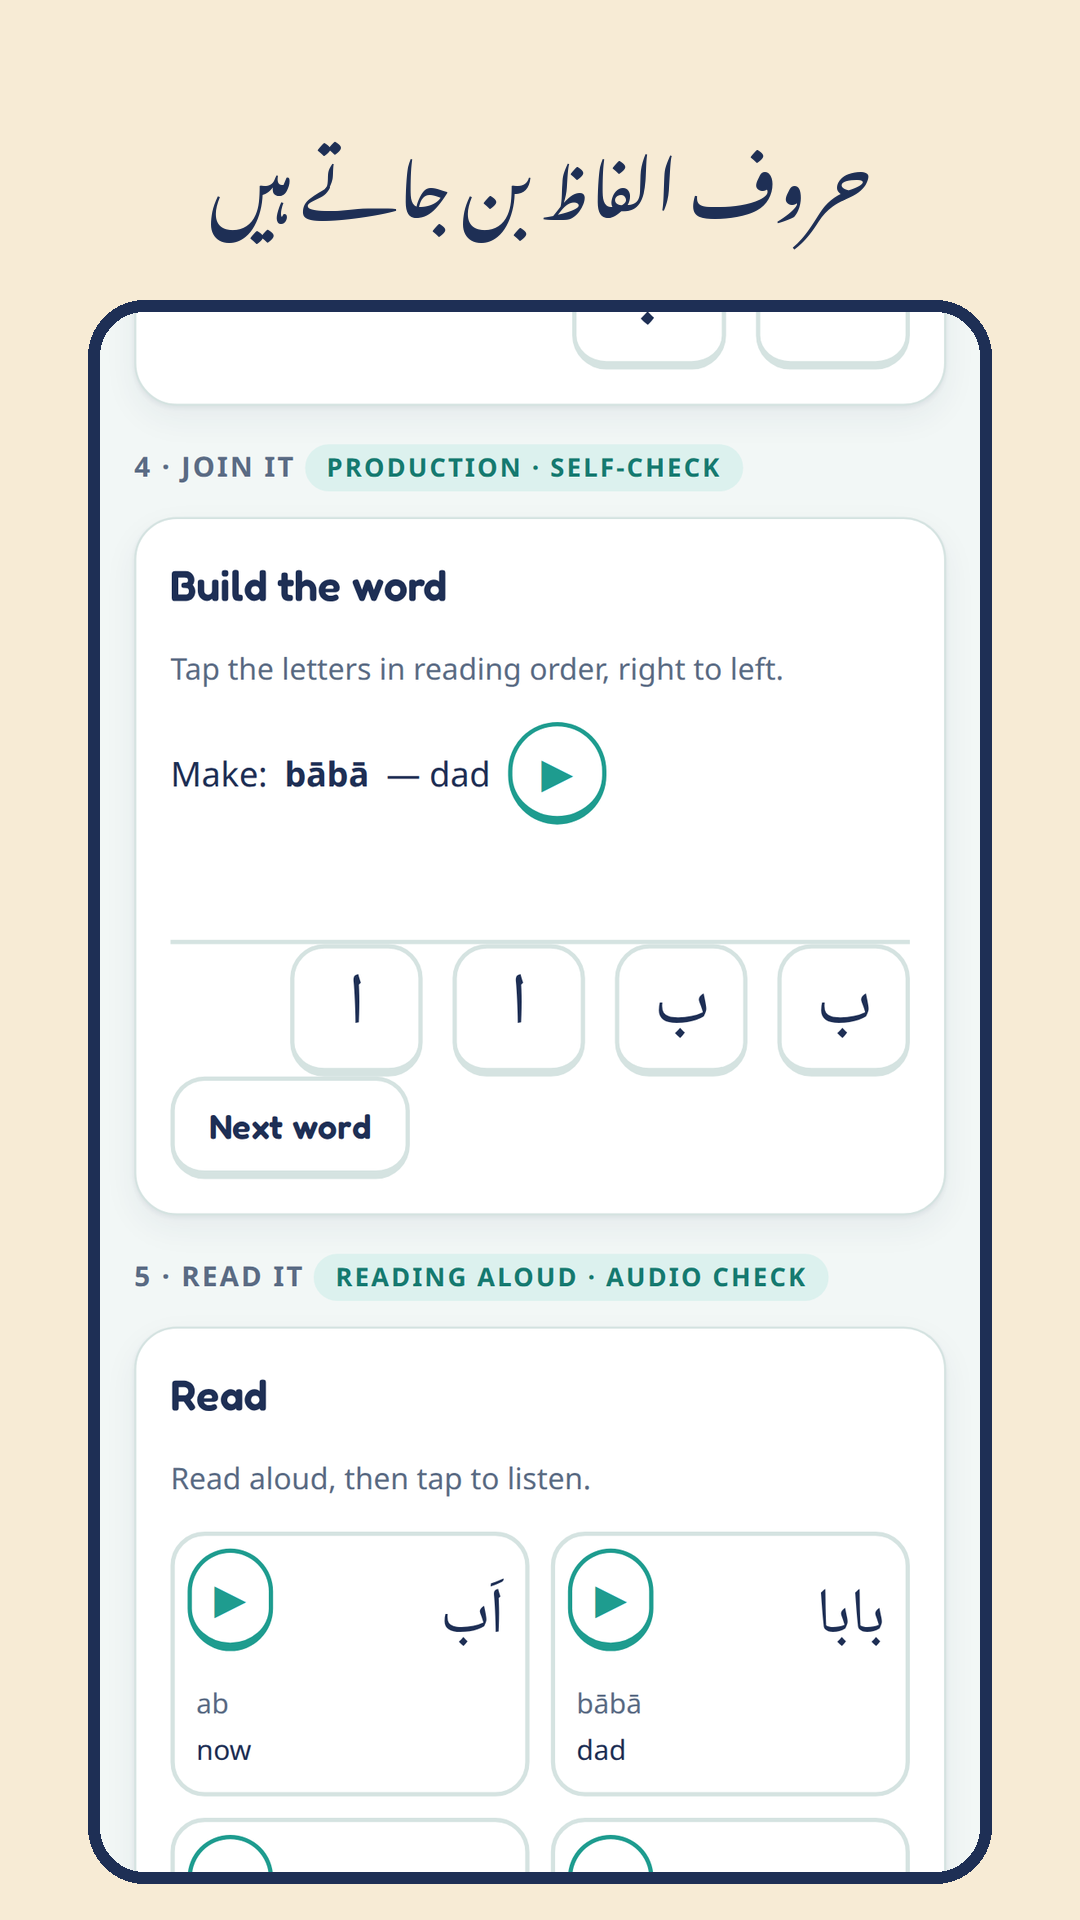
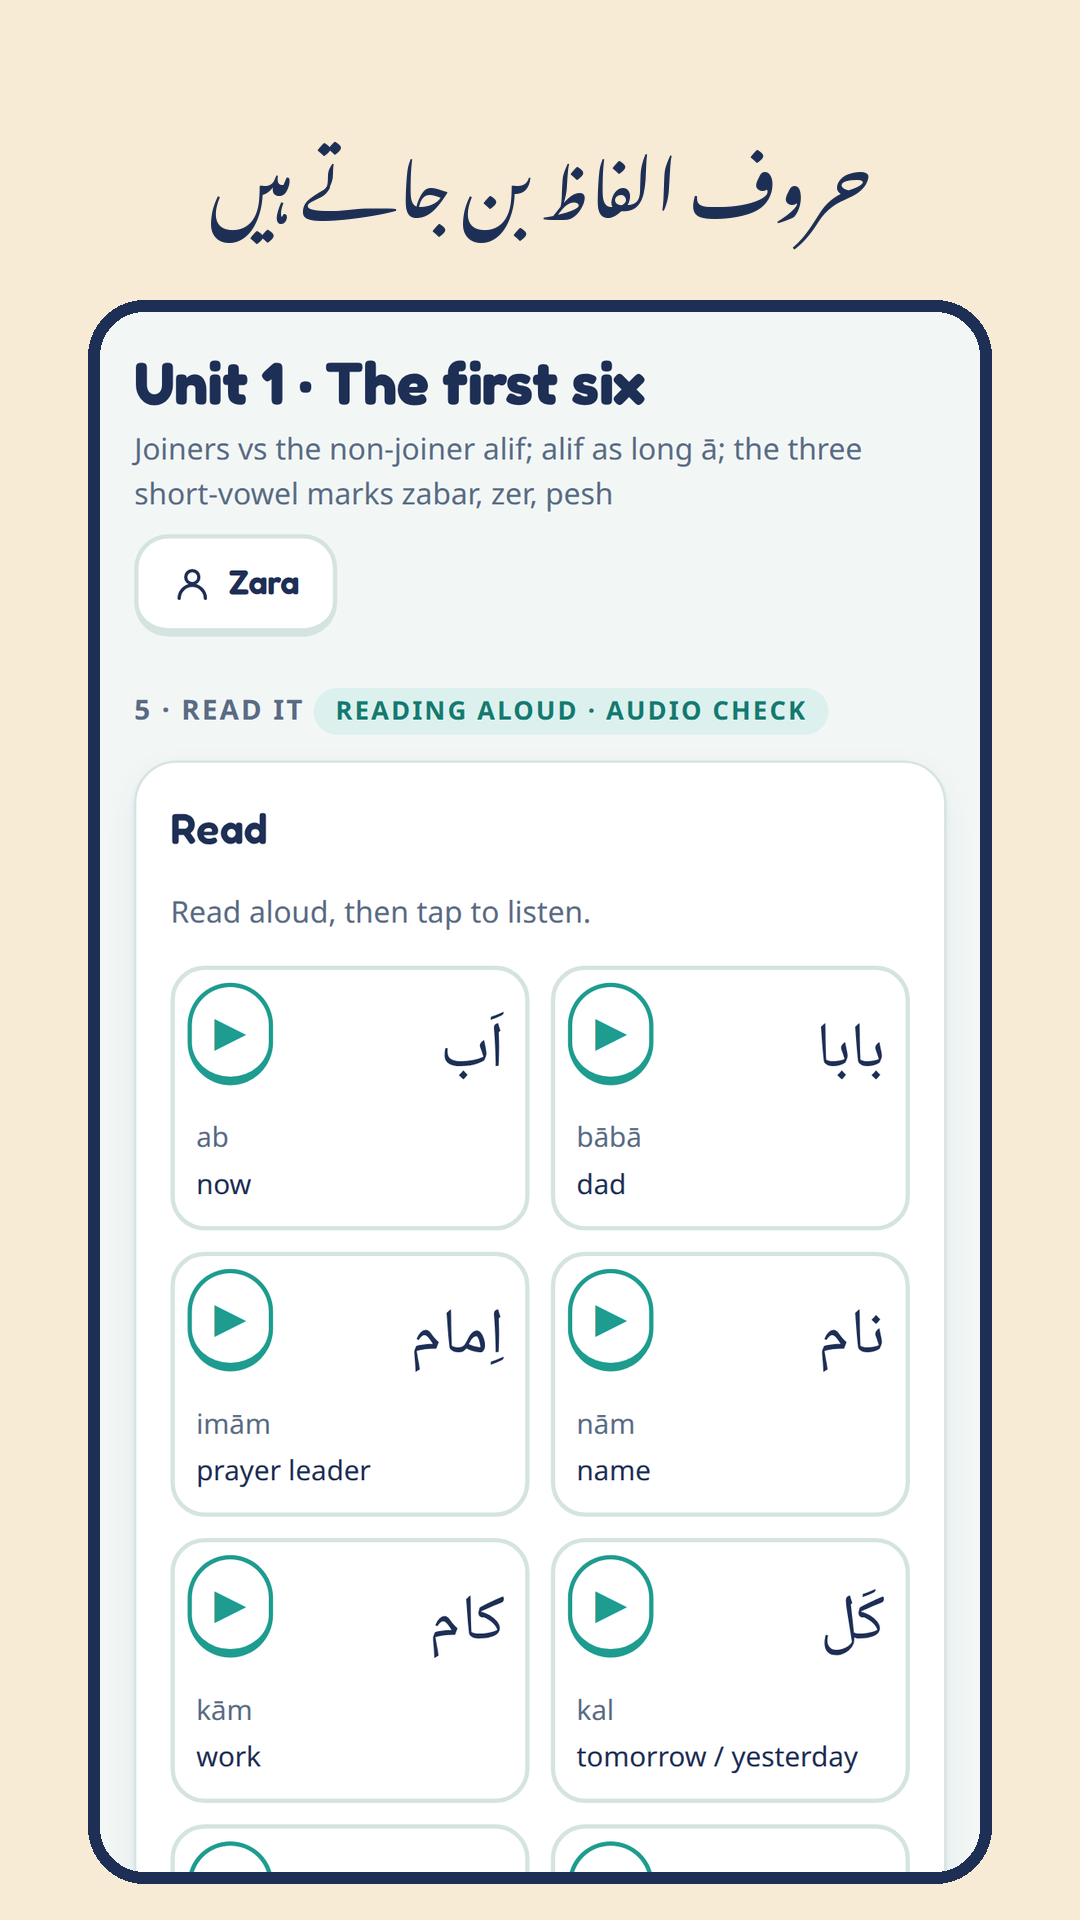
store: Qaida-first listing, keyword fixes, seeded screenshots, donate covered in privacy policy

diff --git a/docs/privacy.html b/docs/privacy.html
@@ -17,7 +17,7 @@ a{color:var(--accent)}
 <body>
 <main>
 <h1>Urdu Reader · Privacy policy</h1>
-<p class="muted">App: Urdu Reader (package <code>com.oyekamal.urdureader</code>) · Developer: Muhammad Kamal, Pakistan · Effective 19 September 2026</p>
+<p class="muted">App: Urdu Reader (package <code>com.oyekamal.urdureader</code>) · Developer: Muhammad Kamal, Pakistan · Effective 19 September 2026 (donate section added the same day)</p>
 
 <h2>The short version</h2>
 <p>Urdu Reader works completely offline. It has no account, no login, no ads, no analytics, and no tracking. Everything a learner does stays on the phone it was done on. We never see it.</p>
@@ -45,6 +45,7 @@ a{color:var(--accent)}
 <ul>
 <li><b>Export backup / Share report</b> creates a file or text on your phone and hands it to the Android share sheet. Where it goes (WhatsApp, email, Drive) is your choice, under that app's privacy policy.</li>
 <li><b>Help make this better</b> (More tab) opens WhatsApp or GitHub in your browser to contact the developer. These links sit behind a simple grown-ups-only arithmetic question. Nothing is sent until you write a message there.</li>
+<li><b>Donate</b> (More tab, behind the same grown-ups question) shows the developer's Easypaisa mobile-wallet number and can copy it or open the Easypaisa app if you have it. Donations are voluntary, made entirely inside Easypaisa under its own terms, and unlock nothing in the app. The app never sees whether you donated.</li>
 </ul>
 
 <h2>Children</h2>

diff --git a/mobile/tools/store_shots.py b/mobile/tools/store_shots.py
@@ -14,15 +14,16 @@ with sync_playwright() as p:
     pg.evaluate("document.querySelector('canvas.trace')?.scrollIntoView({block:'center'})"); pg.wait_for_timeout(300); pg.screenshot(path=f"{out}/03_trace.png")
     # words: unit 1 lesson view via Units tab (locked confirm auto-accepted)
     pg.click(".bottom button:has-text('Units')"); pg.wait_for_timeout(700); pg.click(".ucard:nth-child(2)"); pg.wait_for_timeout(1200)
-    pg.wait_for_selector(".words", timeout=8000); pg.locator("h3", has_text="Read it").first.scroll_into_view_if_needed(); pg.evaluate("window.scrollBy(0,-12)"); pg.wait_for_timeout(500); pg.screenshot(path=f"{out}/04_words.png")
+    pg.wait_for_selector(".words", timeout=8000); pg.evaluate("""()=>{const h=[...document.querySelectorAll('h3')].find(h=>h.textContent.includes('Read it'));const main=h.parentElement;[...main.children].forEach(c=>{if(c!==h&&c!==h.nextElementSibling&&!c.matches('.row,.bottom'))c.style.display='none'});h.style.marginTop='24px';window.scrollTo(0,0)}"""); pg.wait_for_timeout(400); pg.screenshot(path=f"{out}/04_words.png")
     pg.click(".bottom button:has-text('Units')"); pg.wait_for_timeout(700); pg.click(".ucard:nth-child(12)"); pg.wait_for_timeout(1200)
-    pg.wait_for_selector(".nastaliq", timeout=8000); pg.locator("h3", has_text="Nastaliq").first.scroll_into_view_if_needed(); pg.evaluate("window.scrollBy(0,-12)"); pg.wait_for_timeout(500); pg.screenshot(path=f"{out}/05_nastaliq.png")
-    pg.click(".bottom button:has-text('Progress')"); pg.wait_for_timeout(900); pg.screenshot(path=f"{out}/07_progress.png")
+    pg.wait_for_selector(".nastaliq", timeout=8000); pg.evaluate("""()=>{const card=document.querySelector('.nastaliq').closest('.card');const main=card.parentElement;[...main.children].forEach(c=>{if(c!==card&&!c.matches('.row,.bottom'))c.style.display='none'});card.querySelector('.words')?.remove();[...card.querySelectorAll('h2,p')].forEach(x=>x.remove());const h=document.createElement('h2');h.textContent='Naskh for learning, Nastaliq for print';card.prepend(h);window.scrollTo(0,0)}"""); pg.wait_for_timeout(400); pg.screenshot(path=f"{out}/05_nastaliq.png")
     # teacher assess
     ctx2=b.new_context(viewport={"width":412,"height":880}, device_scale_factor=2.62); pg2=ctx2.new_page(); pg2.on("dialog", lambda d: d.accept()); pg2.goto(f"http://localhost:{port}/"); pg2.wait_for_timeout(1500)
     pg2.click("text=My class"); pg2.wait_for_timeout(400); pg2.fill("input[placeholder='Your name']","Ms Sana"); pg2.fill("input[placeholder='4-digit PIN']","1234"); pg2.click("button:has-text('Save')"); pg2.wait_for_timeout(600)
     pg2.click("button:has-text('Teacher')"); pg2.wait_for_timeout(300); pg2.fill("input[type=password]","1234"); pg2.click("button:has-text('Unlock')"); pg2.wait_for_timeout(1200)
     for n,g in [("Ayesha","1"),("Bilal","2"),("Hira","1")]:
         pg2.fill("input[placeholder=Name]",n); pg2.click("button:has-text('Add child')"); pg2.wait_for_timeout(400)
-    pg2.click(".tab:has-text('Assess')"); pg2.wait_for_timeout(900); pg2.screenshot(path=f"{out}/06_teacher.png")
+    pg2.evaluate("""async()=>{const {db,uid}=await import('/src/db.js');const {bandFor}=await import('/src/content.js');const ps=(await db.all('profiles')).filter(p=>p.kind!=='teacher');const DAY=86400000;const data=[[38,6,14,31,3],[52,9,22,64,5],[45,8,19,48,4]];
+      ps.forEach(async(p,i)=>{for(let k=0;k<2;k++){const d=data[i];const cw=d[3]-(k?12:0);await db.put('assessments',{id:uid(),profileId:p.id,ts:Date.now()-(k?35:2)*DAY,by:'Ms Sana',letters:d[0]-(k?8:0),nonwords:d[1]-(k?2:0),words:d[2]-(k?5:0),orf:{cwpm:cw,seconds:60,errors:3},comp:d[4]-(k?1:0),band:bandFor(cw)});}})}"""); pg2.wait_for_timeout(800)
+    pg2.click(".tab:has-text('Class')"); pg2.wait_for_timeout(600); pg2.click(".tab:has-text('Assess')"); pg2.wait_for_timeout(900); pg2.screenshot(path=f"{out}/06_teacher.png")
     print("raw shots done"); b.close()

diff --git a/scripts/make_store.py b/scripts/make_store.py
@@ -18,8 +18,8 @@ CAPTIONS = [  # (raw file prefix, EN, UR)
     ("04", "Letters become real words", "حروف الفاظ بن جاتے ہیں"),
     ("05", "Naskh and Nastaliq, both", "نسخ اور نستعلیق دونوں"),
     ("06", "Teacher mode assesses reading", "استاد موڈ: پڑھائی جانچیں"),
-    ("07", "Parents see real progress", "والدین پیشرفت دیکھیں"),
-    ("08", "Fully offline, made in Pakistan", "مکمل آف لائن، پاکستان میں بنا"),
+    ("07", "Parents see real progress, offline", "والدین پیشرفت دیکھیں، آف لائن"),
+    ("08", "Just me, my family, or my class", "میں، میرا گھر، یا میری کلاس"),
 ]
 
 
@@ -46,7 +46,7 @@ def feature():
     bg = Image.open(f"{R}/design/gen/out/feature_bg.jpg").convert("RGB"); w, h = bg.size; tw = int(h * 1024 / 500)
     bg = bg.crop(((w - tw) // 2, 0, (w - tw) // 2 + tw, h)).resize((1024, 500), Image.LANCZOS); d = ImageDraw.Draw(bg)
     f1 = ImageFont.truetype(NASTALIQ, 58, layout_engine=ImageFont.Layout.RAQM); d.text((980, 92), "اردو پڑھنا سیکھیں", font=f1, fill=INK, anchor="rm", direction="rtl")
-    f2 = ImageFont.truetype(LATIN, 40); d.text((980, 176), "Urdu Reading: Qaida & Quiz", font=f2, fill=TURQ, anchor="rm")
+    f2 = ImageFont.truetype(LATIN, 40); d.text((980, 176), "Urdu Qaida: Read & Quiz", font=f2, fill=TURQ, anchor="rm")
     f3 = ImageFont.truetype(LATIN, 24); d.text((980, 222), "letters, words, sentences. Fully offline.", font=f3, fill=INK, anchor="rm")
     return bg
 

diff --git a/store/listing_en.md b/store/listing_en.md
@@ -2,15 +2,15 @@
 
 Source: research/17_aso.md (competitor pull, keyword table, Play rules). Limits checked: title ≤30, short ≤80, full ≤4000.
 
-## Title (26 chars)
-Urdu Reading: Qaida & Quiz
+## Title (25 chars)
+Urdu Qaida: Read & Quiz
 
-## Short description (79 chars)
-Urdu Qaida app with reading assessment & parent reports — works fully offline.
+## Short description (80 chars)
+Urdu Qaida for kids & adults: Alif Bay Pay to words, Naskh & Nastaliq, offline.
 
 ## Full description
 
-Learn Urdu reading the way teachers teach it: one letter at a time, from the Urdu alphabet to real words to full sentences. Urdu Reading is a free, fully offline Urdu Qaida for children from age 5, for adults learning Urdu script, and for families abroad who speak Urdu but never learned to read it.
+Learn Urdu reading the way teachers teach it: one letter at a time, from Alif Bay Pay (the Urdu alphabet) to real words to full sentences. Urdu Qaida: Read & Quiz is a free, fully offline Urdu alphabets app for kids from age 5, for adults learning Urdu script, and for families abroad who speak Urdu but never learned to read it. If you have wished for a lesson path like the big language apps, but for Urdu reading, this is it.
 
 Meet Marko, the little markhor. He says every letter and word aloud, cheers when you get it right, and never shows you a letter you have not learned yet.
 
@@ -20,17 +20,18 @@ HOW IT WORKS
 • Dots-confusable letters (ب پ ت ٹ ث) are taught together, so you learn to tell them apart.
 • Vowel marks (zabar, zer, pesh) come after the first letters, and stay on until you can read without them.
 • Join, blend, build words from tiles, dictation, and a unit check that unlocks the next unit.
-• Naskh for learning, Nastaliq for print: switch scripts any time and re-read earlier units.
-• Reading speed timer with the grade-2 standard (60 correct words per minute) so progress is measurable.
+• Naskh for learning, Nastaliq for print: switch between Naskh and Nastaliq any time and re-read earlier units.
+• Reading speed timer against the commonly used grade-2 benchmark of 60 correct words per minute, so progress is measurable.
+• Montessori-style order: sound first, shape second, then trace, then build.
 
 FOR TEACHERS
 • Teacher mode with a PIN: class roster, lesson scripts (I do, we do, you do), group activities.
-• EGRA-style reading assessment: letter sounds, nonwords, familiar words, passage, comprehension. Results per child, over time.
+• Reading assessment modelled on the Early Grade Reading Assessment (EGRA): letter sounds, nonwords, familiar words, passage, comprehension. Results per child, over time.
 • Works on one shared phone in a classroom with no internet.
 
 FOR PARENTS
 • Family mode for one to three children on one phone.
-• Parent report you can share on WhatsApp: units passed, letters and words solid, reading speed, what to practise next.
+• Parent report you can share on WhatsApp: units passed, letters and words solid, reading speed, what to practise next. The parent report and the reading assessment use the same bands, so home and school see the same picture.
 • Spaced review cards bring back exactly the letters and words a child keeps missing.
 
 ACCESSIBILITY
@@ -42,7 +43,7 @@ PRIVACY
 
 Made in Pakistan by one developer. The course, its research and the code are open at github.com/oyekamal/urdu-reading-course. Found a wrong sound or a bug? The More tab has a WhatsApp button.
 
-Keywords this text carries: urdu reading, urdu qaida, urdu alphabet, learn urdu, urdu for kids, urdu script, naskh, nastaliq, reading assessment, parent report, teacher mode, offline.
+Keywords this text carries: urdu qaida, urdu reading, urdu alphabet, alif bay pay, urdu alphabets for kids, learn urdu, urdu script, naskh, nastaliq (2x), reading assessment (2x), parent report (2x), teacher mode, montessori, offline.
 
 ## Category
 Education · Content rating target: Everyone · Target audience: 5–8, 9–12, 13+ (mixed audience) · Free · No ads · No in-app purchases
